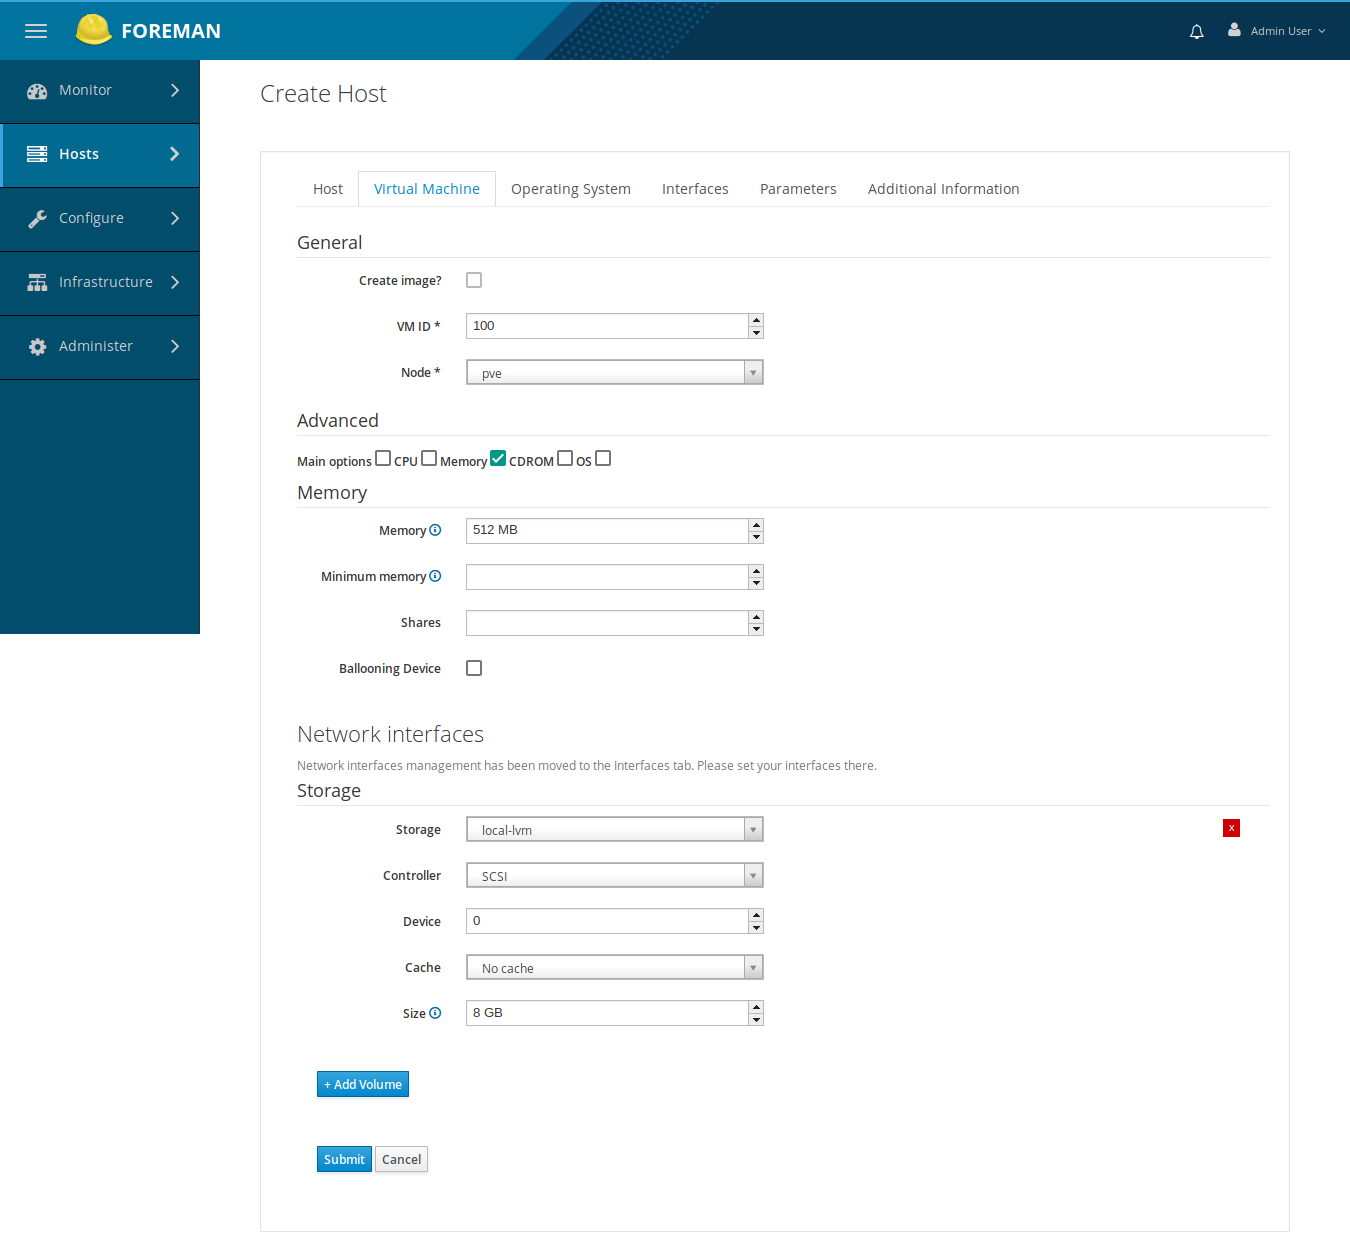
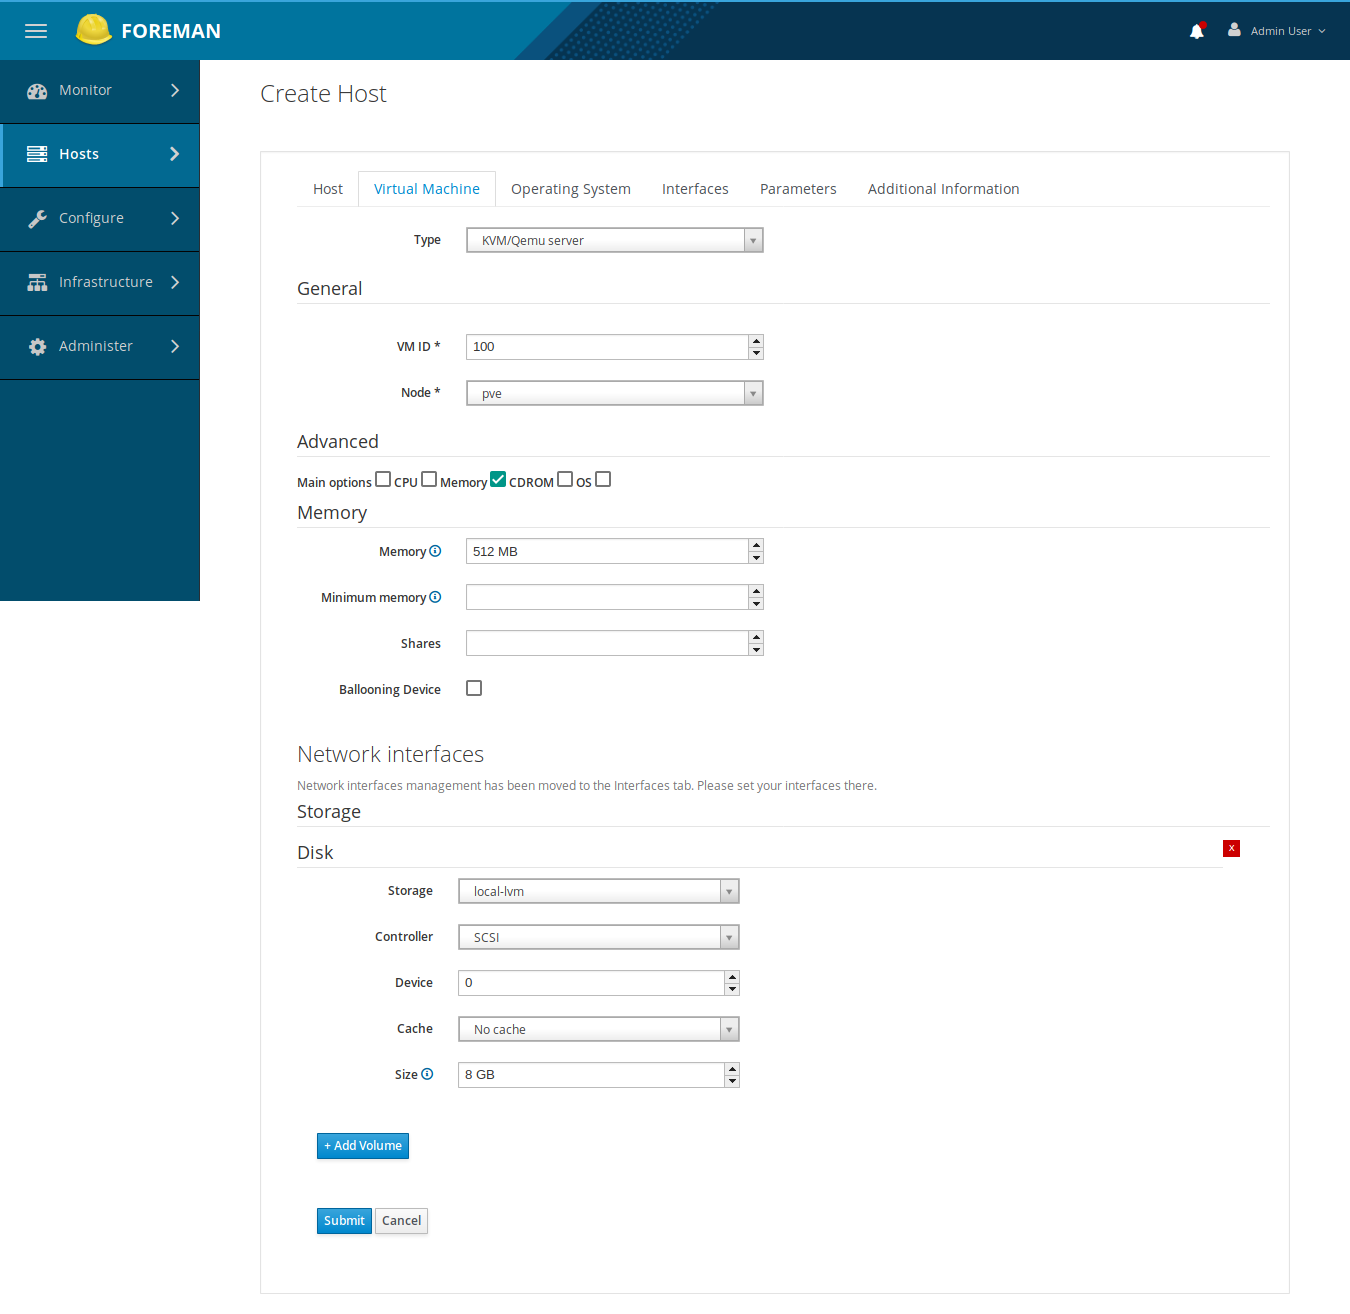
Updates docs
Containers added

diff --git a/.github/hosts.md b/.github/hosts.md
@@ -2,11 +2,15 @@
 
 ## Create
 
-VM Proxmox config tab:
+You first choose VM type between a container or a server.
 
-![Create host](images/create_host.png)
+The form automatically changes.
 
-Advanced options could also be modified in VM Proxmox config tab.
+Server VM Proxmox config tab:
+
+![Create host server](images/create_host_server.png)
+
+Advanced options could also be modified in Server VM Proxmox config tab.
 
 Main options:
 
@@ -38,13 +42,21 @@ Network interface tab:
 
 Identifier is required. You must set `net[n]` with n an integer.
 
+The container form slightly differs from the server one.
+
+Container VM Proxmox config tab:
+
+![Create host container](images/create_host_container.png)
+
+
+
 ## Update
 
 Update config is available.
 
 ## Clone images
 
-You can also change a host in an image, i.e. a [template](https://pve.proxmox.com/wiki/Qemu/KVM_Virtual_Machines#qm_templates) in Proxmox.
+You can also change a host (server or container) into an image, i.e. a [template](https://pve.proxmox.com/wiki/Qemu/KVM_Virtual_Machines#qm_templates) in Proxmox.
 You update a host. You check the box `Create image?` to true and save it:
 
 ![Update host to template](images/update_host_to_template.png)
@@ -73,17 +85,17 @@ You can list hosts in foreman:
 
 ![List hosts](images/list_hosts.png)
 
-And you can check it in Proxmox wbe interface too:
+And you can check it in Proxmox Web interface too:
 
 ![List VMs in Proxmox](images/proxmox_vms.png)
 
 ## Show a host
 
-VM tab when vm is a template. `Templated?` is true:
+VM (server) tab when vm is a template. `Templated?` is true:
 
 ![Show VM templated](images/show_host_templated.png)
 
-VM tab when vm is not a template. `Templated?` is false:
+VM (container) tab when vm is not a template. `Templated?` is false:
 
 ![Show VM not templated](images/show_host.png)
 

diff --git a/.github/compute_resource.md b/.github/compute_resource.md
@@ -33,7 +33,11 @@ To ease hosts management you can create a host group.
 
 You can create profiles:
 
-![Compute profile](images/compute_profile_small.png)
+![Compute profile](images/compute_profile_server.png)
+
+You can list profiles:
+
+![Compute profile](images/list_profiles.png)
 
 ## Associated vms
 
